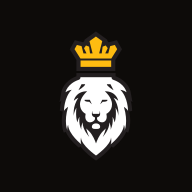
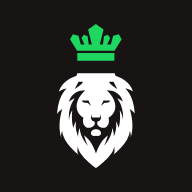
feat(zimols): pārkrāsotā zīme visur, un akcents saskaņots ar to
Gata jaunie faili no "Updated logo - color". Šoreiz teksts jau bija līknēs -
pārvērst neko nevajadzēja.

KURŠ VARIANTS KUR. Mapē bija seši SVG, un pēc nosaukuma nevar pateikt, kurš der
tumšam fonam. Katru uzzīmēju uz magenta un saskaitīju krāsu daļas:
  GD-horizontal-02-white  55% balts -> TUMŠAM fonam  -> galvene un kājene
  GD-horizontal-01        50% melns -> gaišam fonam
  GD-dark-03 / Gd-dark-02            -> vecajā 700x224 kadrā
  GD-Favicon-02           aizpilda visu kvadrātu ar tumšu pamatni -> ikona
  GD-Favicon-01           zīme bez pamatnes

ZAĻĀ NĀK NO ZĪMES, NE NO PIERAKSTA. Zīmē ir #1ED760, bet tekstā Gatis atsūtīja
#23D962 - starpība 5 vienības no 255. Kad divi avoti gandrīz sakrīt, patiesība
ir ZĪME: citādi ar laiku lapā dzīvo divas gandrīz vienādas zaļās, un neviens
vairs nezina, kura ir pareizā.

  --amber          #1ED760   10,28:1 uz grafīta
  --amber-soft     #3FE47A   11,82:1              (atvasināta)
  --amber-deep     #19B350    7,14:1              (atvasināta)
  --amber-on-paper #117D38    4,67:1 uz papīra    (atvasināta)
  --on-amber       #191414    9,50:1 uz pildījuma (šo pāri lieto pati zīme)

IKONAS PĀRTAISĪTAS NO JAUNĀS ZĪMES: favicon.svg, icon-192, icon-512,
apple-touch-icon un favicon.ico (16/32/48). Stūra krāsa (25,20,20) - pamatne ir
pilnā kvadrātā, tāpēc uz Google baltā saraksta zīme neizzūd.

Logo proporcija mainījās 3,120 -> 3,215, tāpēc platums 225 -> 231 px. Mērīts pēc
[…]

Changed region(s): [[0.2812, 0.125, 0.7188, 0.875]]

diff --git a/src/styles/tokens.css b/src/styles/tokens.css
@@ -7,26 +7,26 @@
  * Dizaina tokeni - virziens "Direction" (apstiprināta kanva 2026-09-05).
  *
  * AKCENTS NĀK NO LOGO. 2026-09-08 akcents nomainīts uz Gata zaļo paleti
- * (#23D962), un Gatis tajā pašā dienā pārkrāso lauvas kroni - tāpēc zīme un
- * lapa paliek vienā sistēmā. Iepriekš tas bija kroņa dzeltenais #FEBC11, pirms
+ * (#1ED760) - tieši to, kas ir pārkrāsotajā zīmē, tāpēc lapa un logo lieto vienu
+ * un to pašu zaļo. Gata tekstā atsūtītā #23D962 no zīmes atšķīrās par 5
+ * vienībām no 255; kad divi avoti gandrīz sakrīt, patiesība ir ZĪME, ne
+ * pieraksts, citādi ar laiku parādās divas gandrīz vienādas krāsas. Iepriekš tas bija kroņa dzeltenais #FEBC11, pirms
  * tam vara #DF541E.
  *
  * Kontrasta vārti (WCAG 2.1 AA, pārmērīts 2026-09-08):
- *   zaļā #23D962 uz grafīta #0D0A0A ........ 10,49:1  teksts un akcents - atļauts
- *   zaļā #23D962 uz ink-850 #121010 ........ 10,13:1  teksts un akcents - atļauts
- *   #0D0A0A uz zaļā pildījuma ............. 10,49:1  pogu teksts - atļauts
- *   zaļā-gaišā #3EE076 uz grafīta .......... 11,39:1  hover un aktīvais stāvoklis
- *   zaļā-dziļā #21BF48 uz grafīta ........... 8,09:1  klusākais akcenta pildījums
- *   zaļā #23D962 uz papīra #F2F2F2 .......... 1,68:1  KRĪT - nekad, ne pat pildījums
- *   #127234 uz papīra #F2F2F2 ............... 5,29:1  teksts uz gaišas virsmas
+ *   zaļā #1ED760 uz grafīta #0D0A0A ........ 10,28:1  teksts un akcents - atļauts
+ *   #191414 uz zaļā pildījuma .............. 9,50:1  pogu teksts; šo pāri lieto pati zīme
+ *   zaļā-gaišā #3FE47A uz grafīta .......... 11,82:1  hover un aktīvais stāvoklis
+ *   zaļā-dziļā #19B350 uz grafīta ........... 7,14:1  klusākais akcenta pildījums
+ *   zaļā #1ED760 uz papīra #F2F2F2 .......... 1,73:1  KRĪT - nekad, ne pat pildījums
+ *   #117D38 uz papīra #F2F2F2 ............... 4,67:1  teksts uz gaišas virsmas
+ *   saišu pasvītrojums uz grafīta ........... 3,69:1  virs 3:1, ko prasa saskarnes elements
  *   papīrs #F2F2F2 uz grafīta .............. 17,62:1  pamatteksts
  *
- * DIVAS VĒRTĪBAS IR ATVASINĀTAS, NE DOTAS. Gata paletē visas trīs zaļās ir
- * bāzes gaišumā vai tumšākas, bet sistēmai vajag arī GAIŠĀKU (hover un aktīvais
- * stāvoklis) un daudz tumšāku (teksts uz gaišas virsmas). Abas rēķinātas tajā
- * pašā tonī un piesātinājumā: --amber-soft L 56%, --amber-on-paper L 26%.
- * Trešā Gata zaļā #1CA64C sistēmā vietas neatrada - tā ir tuvu #21BF48 (6,21
- * pret 8,09 uz grafīta), un "dziļajam" pildījumam ir viena vieta, ne divas.
+ * TRĪS VĒRTĪBAS IR ATVASINĀTAS, NE DOTAS. Zīmē ir tikai trīs krāsas - zaļā,
+ * #191414 un balta - bet sistēmai vajag arī gaišāku (hover), dziļāku
+ * (klusākais pildījums) un daudz tumšāku (teksts uz gaišas virsmas). Visas trīs
+ * rēķinātas zīmes pašas tonī un piesātinājumā: L 57%, 40% un 22%.
  *
  * Akcents joprojām ir DIVI tokeni, ne viens: --amber (tumšās virsmas,
  * pildījumi) un --amber-on-paper (gaišas virsmas). Uz papīra zaļā ir 1,68:1 -
@@ -170,13 +170,13 @@
   --on-paper-dim: #5c544a;
 
   /* --- Vara --- */
-  --amber: #23d962;
-  --amber-soft: #3ee076;
-  --amber-deep: #21bf48;
+  --amber: #1ed760;
+  --amber-soft: #3fe47a;
+  --amber-deep: #19b350;
   /** Teksts un saites uz papīra virsmām. Uz papīra --amber ir 1,68:1 - neredzams. */
-  --amber-on-paper: #127234;
+  --amber-on-paper: #117d38;
   /** Teksts uz vara pildījuma (pogas). */
-  --on-amber: #0d0a0a;
+  --on-amber: #191414;
 
   /* --- Pārklājumi (scrim) ---
    * Grafīts kā RGB kanāli, lai caurspīdīgums nāktu no tokena, ne no ar roku
@@ -227,7 +227,7 @@
   /* Saišu pasvītrojums. Ar veco varu saplūdusī krāsa uz grafīta bija 2,61:1,
      tas ir, ZEM 3:1, ko WCAG prasa saskarnes elementam; ar kroņa dzelteno tā ir
      4,09:1. Krāsas maiņa te salaboja arī to, ko neviens nebija pamanījis. */
-  --line-amber: rgba(35, 217, 98, 0.55);
+  --line-amber: rgba(30, 215, 96, 0.55);
   --line-on-paper: rgba(13, 11, 9, 0.16);
 
   /* --- Fonti --- */

diff --git a/src/components/WhatsAppPoga.tsx b/src/components/WhatsAppPoga.tsx
@@ -10,8 +10,8 @@ import { WHATSAPP } from "@/lib/site";
  * kopā izskatās kā pāris, ne kā divi svešķermeņi. Ka aiz tās ir WhatsApp,
  * pasaka nosaukums, kas atveras uz hover, un `aria-label`.
  *
- * Uz dzeltenā pildījuma ikona un teksts ir tumši (#1A1206, 10,49:1). Balts uz
- * zaļā būtu 1,68:1 - tas nav lasāms nemaz.
+ * Uz dzeltenā pildījuma ikona un teksts ir tumši (#1A1206, 9,50:1). Balts uz
+ * zaļā būtu 1,73:1 - tas nav lasāms nemaz.
  *
  * KUSTĪBA IR VIENA, NE TRĪS. Reize pa reizei no pogas izplūst viens gaismas
  * gredzens. Tas ir pietiekami, lai acs to pamanītu perifērijā, un par maz, lai
@@ -38,7 +38,7 @@ export default function WhatsAppPoga() {
       title={virsraksts}
       className={[
         "wa-poga group fixed left-5 z-[150] inline-flex h-11 items-center gap-0 overflow-hidden rounded-full",
-        "bg-amber pe-0 ps-0 text-on-amber [box-shadow:0_10px_30px_-12px_rgb(35_217_98_/_0.55)]",
+        "bg-amber pe-0 ps-0 text-on-amber [box-shadow:0_10px_30px_-12px_rgb(30_215_96_/_0.55)]",
         "transition-[background-color,padding] duration-300 ease-dir",
         "hover:bg-amber-soft",
         "focus-visible:outline focus-visible:outline-2 focus-visible:outline-offset-2 focus-visible:outline-paper",

diff --git a/src/components/ScrollToTop.tsx b/src/components/ScrollToTop.tsx
@@ -84,10 +84,10 @@ export default function ScrollToTop() {
       // klikšķus arī tad, kad to neredz.
       className={[
         "fixed right-5 z-[150] grid h-11 w-11 place-items-center rounded-full",
-        // Akcenta pildījums, tumša bultiņa. Uz dzeltenā #1A1206 ir 10,49:1;
-        // pati poga pret grafīta lapu ir 10,49:1, tāpēc malas tai vairs
+        // Akcenta pildījums, tumša bultiņa. Uz dzeltenā #1A1206 ir 9,50:1;
+        // pati poga pret grafīta lapu ir 9,50:1, tāpēc malas tai vairs
         // nevajag - uz tumša fona dzeltens aplis ir robeža pats par sevi.
-        "bg-amber text-on-amber [box-shadow:0_10px_30px_-12px_rgb(35_217_98_/_0.55)]",
+        "bg-amber text-on-amber [box-shadow:0_10px_30px_-12px_rgb(30_215_96_/_0.55)]",
         "transition-[opacity,transform,background-color] duration-300 ease-dir",
         "hover:bg-amber-soft focus-visible:outline focus-visible:outline-2 focus-visible:outline-offset-2 focus-visible:outline-paper",
         redzama ? "opacity-100 translate-y-0" : "pointer-events-none opacity-0 translate-y-2",

diff --git a/src/components/direction/CiparuLietus.tsx b/src/components/direction/CiparuLietus.tsx
@@ -10,7 +10,7 @@ import { useEffect, useRef } from "react";
  * tieši virsū, tas ir tikko saskatāms. Tieši tas arī bija mērķis - fons, ne
  * priekšnesums.
  *
- * KRĀSA. Matrix zaļā šeit sadurtos ar visu pārējo: lapas akcents ir #23D962,
+ * KRĀSA. Matrix zaļā šeit sadurtos ar visu pārējo: lapas akcents ir #1ED760,
  * un divas piesātinātas krāsas fonā cīnītos savā starpā. Cipari ir papīra
  * krāsā, un tikai kolonnas galva ik pa laikam iedegas akcenta krāsā.
  *
@@ -146,7 +146,7 @@ export default function CiparuLietus() {
           if (alfa < 0.004) continue;
           const c = k.zimes[(rinda + ASTE) % k.zimes.length];
           ctx!.fillStyle =
-            i === 0 && k.akcents ? `rgba(35, 217, 98, ${alfa * 1.3})` : `rgba(242, 242, 242, ${alfa})`;
+            i === 0 && k.akcents ? `rgba(30, 215, 96, ${alfa * 1.3})` : `rgba(242, 242, 242, ${alfa})`;
           ctx!.fillText(c, k.x, rinda * RINDA);
         }
       }

diff --git a/src/components/Footer.tsx b/src/components/Footer.tsx
@@ -72,7 +72,7 @@ export default function Footer() {
               <img
                 src="/media/gd-logo-horizontal.svg"
                 alt="Gatis Design"
-                width="225"
+                width="231"
                 height="72"
                 className="h-14 w-auto shrink-0 md:h-[72px]"
               />

diff --git a/src/components/Header.tsx b/src/components/Header.tsx
@@ -119,7 +119,7 @@ export default function Header() {
       <img
         src="/media/gd-logo-horizontal.svg"
         alt="Gatis Design"
-        width="225"
+        width="231"
         height="72"
         className="h-14 w-auto shrink-0 md:h-[72px]"
       />
